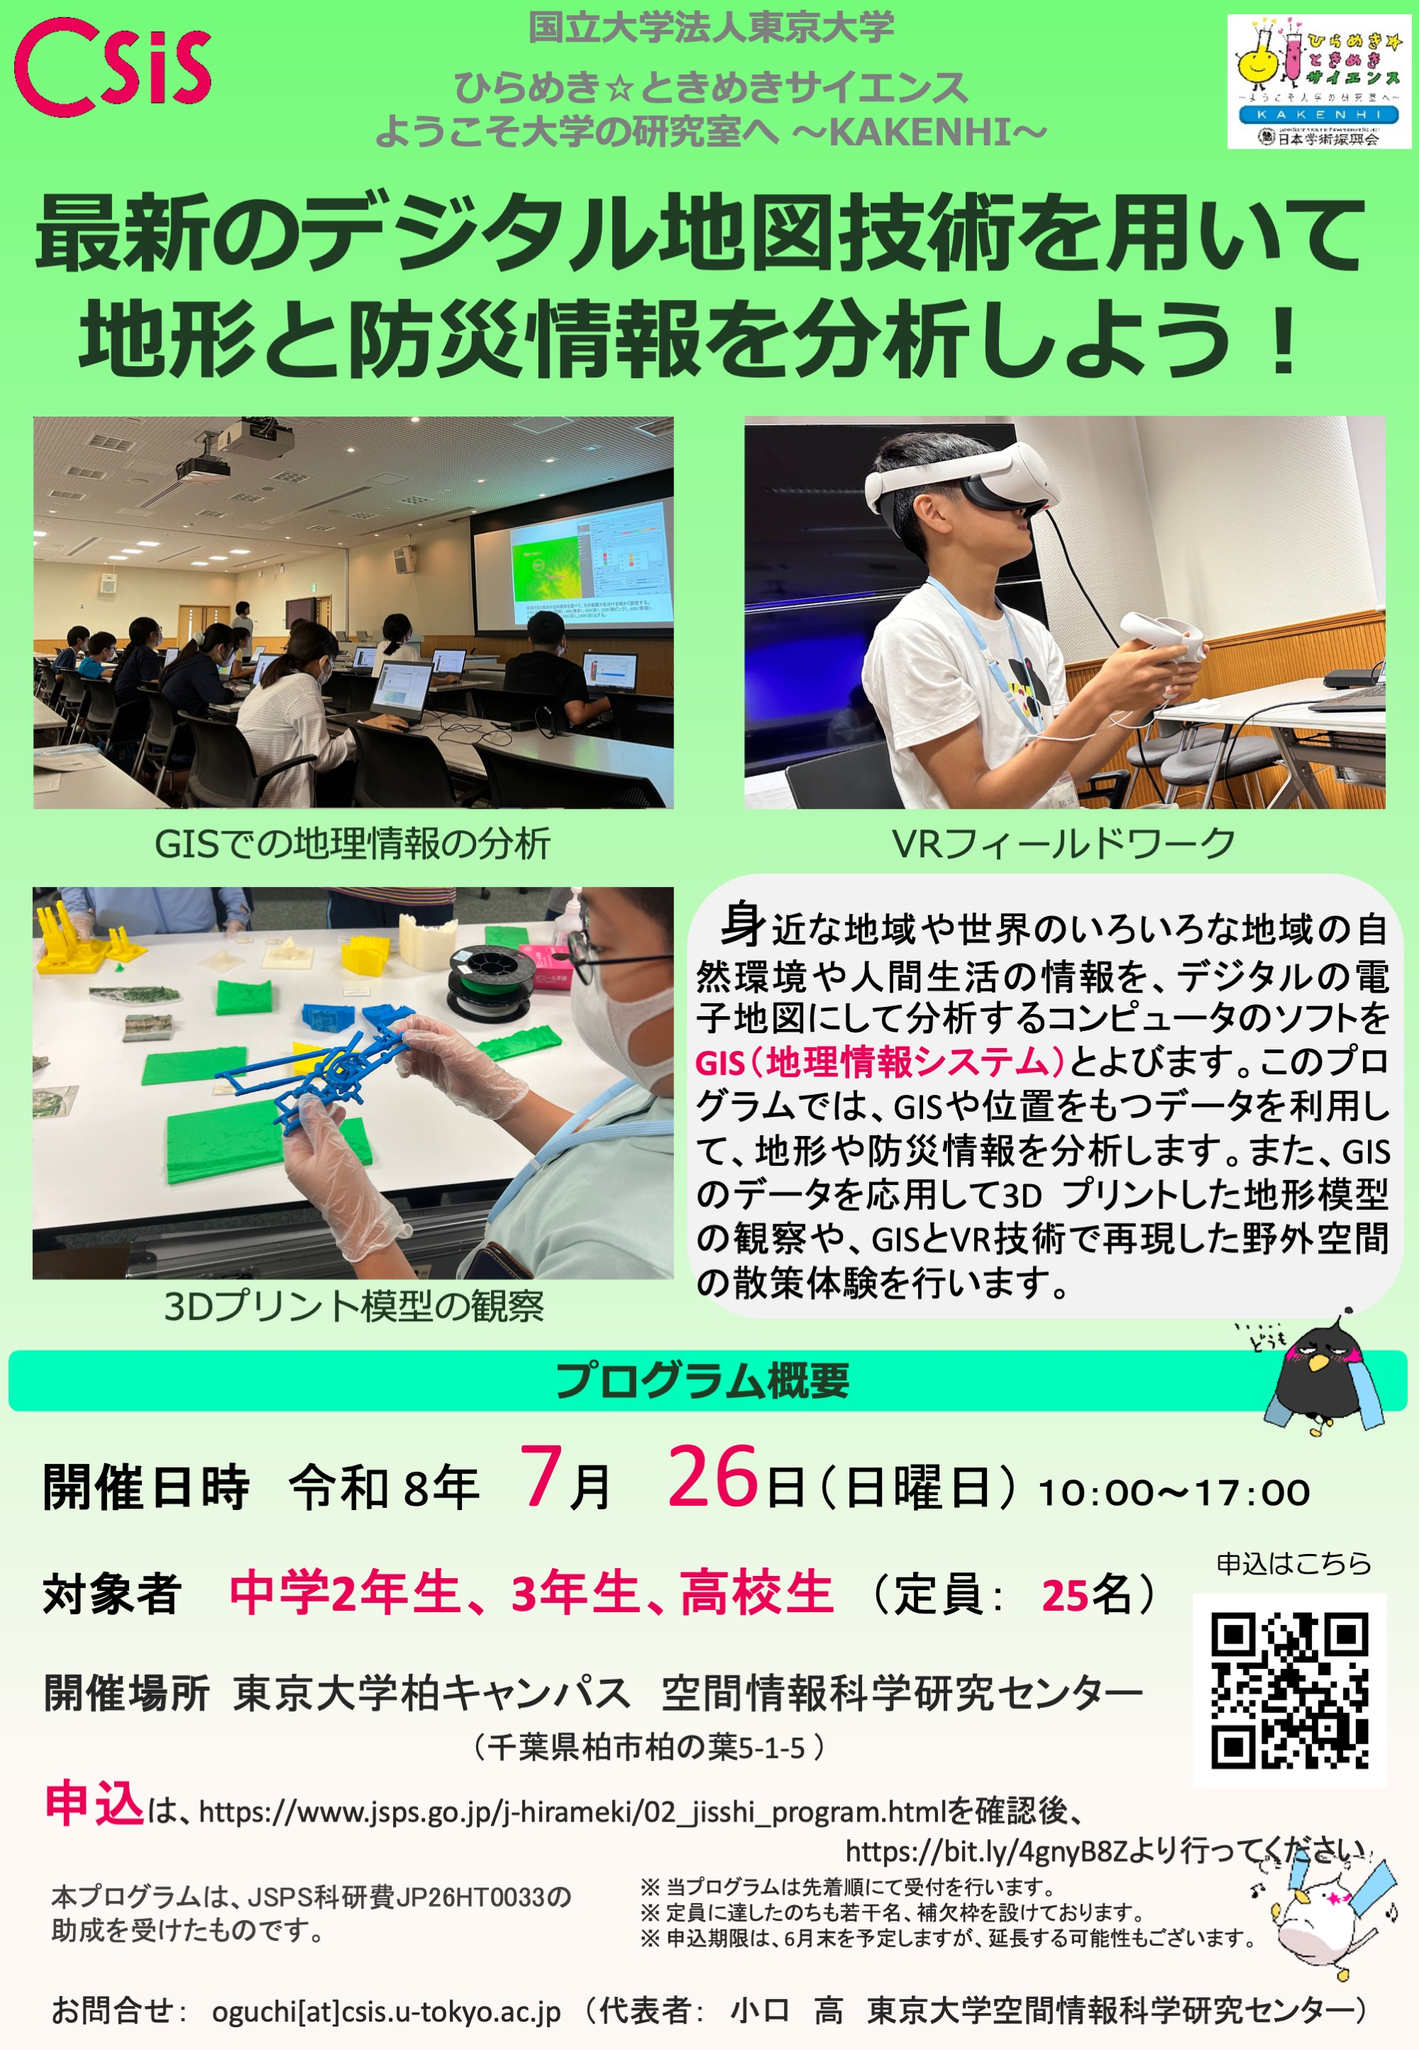
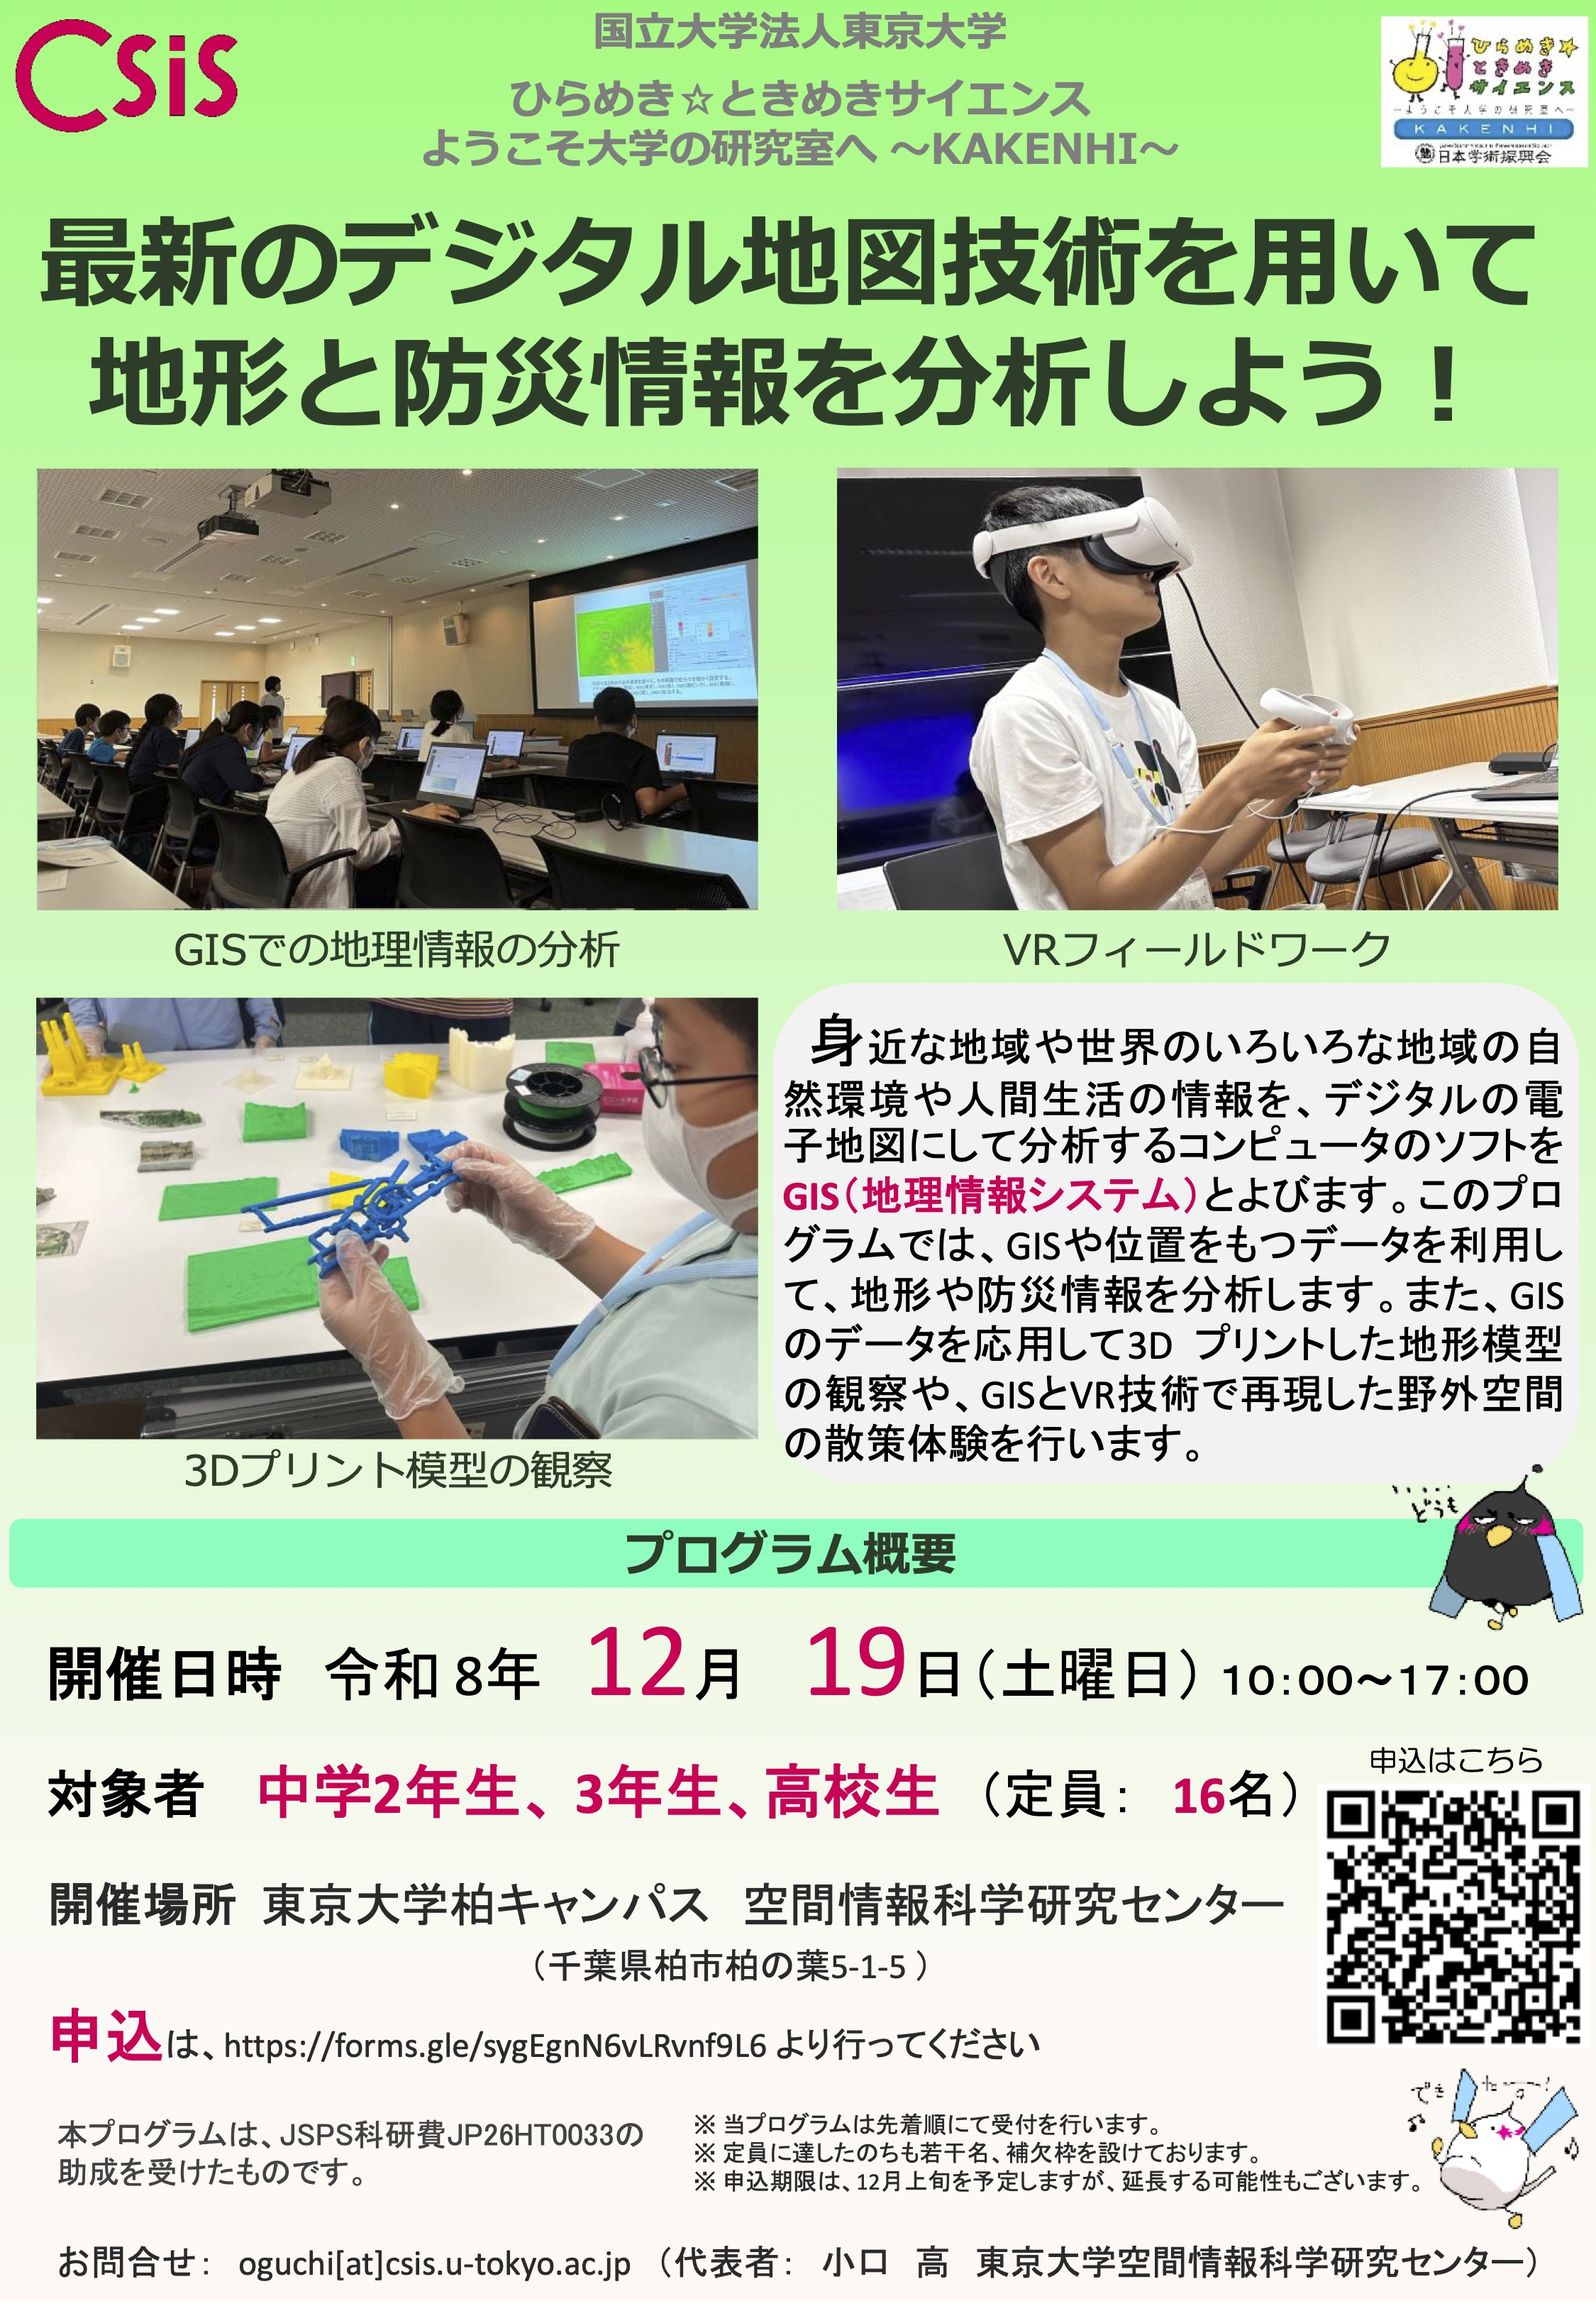
update

diff --git a/index.html b/index.html
@@ -353,7 +353,7 @@ h3{
 
 <h1 id="toc_0">最新のデジタル地図技術を用いて地形と防災情報を分析しよう！開催概要</h1>
 
-<p>ひらめき☆ときめきサイエンス「最新のデジタル地図技術を用いて地形と防災情報を分析しよう！」の開催概要、注意事項についてまとめたページです。本ページは申込者への連絡を想定したもので、新たに参加者を募集するためのページではありません。（2026/6/13更新）</p>
+<p>ひらめき☆ときめきサイエンス「最新のデジタル地図技術を用いて地形と防災情報を分析しよう！」の開催概要、注意事項についてまとめたページです。本プログラムは、7月と12月に同様の内容で実施します（2026/10/24更新）</p>
 
 <ul>
 <li><a href="#1">開催概要</a></li>
@@ -368,16 +368,16 @@ h3{
 <h2 id="toc_1"><a name="0"></a>開催概要</h2>
 
 <ul>
-<li>日時：7月26日（日）10：00～17：00</li>
+<li>日時：12月19日（日）10：00～17：00</li>
 <li>場所：千葉県柏市柏の葉5-1-5　東京大学空間情報科学研究センター</li>
 <li>対象：中学生2年生〜高校生</li>
 <li>講師：<a href="http://oguchaylab.csis.u-tokyo.ac.jp/members.html">小口 高</a>、<a href="https://yurikoyazawa.wixsite.com/yazawayuriko">矢澤 優理子</a>、Wang Ruci（東京大）、<a href="https://www.geoguraphy.com/">小倉拓郎</a>（一橋大/東京大）、<a href="https://researchmap.jp/hyamauchi/">山内啓之</a>（立命館大学/東京大）ほか</li>
 <li>内容：本プログラムは、地理情報システム、3Dプリンタ、VR機材を用いて防災や地形について実習形式で解説するものです。詳細は、<a href="https://www.jsps.go.jp/file/storage/kaken_hirameki_26/26ht0033.pdf">こちら</a>から確認してください。</li>
-<li>申し込みは、<a href="https://bit.ly/4gnyB8Z">https://bit.ly/4gnyB8Z</a>からも行えます。</li>
+<li>申し込みは、<a href="https://forms.gle/sygEgnN6vLRvnf9L6">https://forms.gle/sygEgnN6vLRvnf9L6</a>からも行えます。</li>
 </ul>
 
 <blockquote>
-<p>ひらめき☆ときめきサイエンスの公式ページは、<a href="https://www.jsps.go.jp/j-hirameki/02_jisshi_program.html">https://www.jsps.go.jp/j-hirameki/02<em>jisshi</em>program.html</a>です。本プログラムは、PDF４枚目の千葉県欄に記載があります。お問い合わせの先からの申し込みと説明がありますが、上記のフォームからお申し込みください。</p>
+<p>ひらめき☆ときめきサイエンスの公式ページは、<a href="https://www.jsps.go.jp/j-hirameki/02_jisshi_program.html">https://www.jsps.go.jp/j-hirameki/02<em>jisshi</em>program.html</a>です。本プログラムは、千葉県欄に記載があります。</p>
 </blockquote>
 
 <h2 id="toc_2"><a name="1"></a>プログラム</h2>
@@ -435,7 +435,7 @@ h3{
 </table>
 
 <blockquote>
-<p>昼休憩時には、ランチタイムトーク（）として、昼食をとりながら聞ける講演（20分程度）を予定する可能性があります。</p>
+<p>昼休憩時には、ランチタイムトークとして、昼食をとりながら聞ける講演（20分程度）を予定する可能性があります。</p>
 </blockquote>
 
 <h2 id="toc_3"><a name="2"></a>持ち物、服装</h2>
@@ -506,7 +506,7 @@ h3{
 
 <h3 id="toc_10">学食は利用できますか？</h3>
 
-<p>A. 当日は、構内のすべての学食が空いていません。参加者は、必ず昼食をご持参ください。※大学（会場）の最寄りに、ファミリーマートがあります。</p>
+<p>A. 参加者は、必ず昼食をご持参ください。※大学（会場）の最寄りに、ファミリーマートがあります。</p>
 
 <h3 id="toc_11">Q.当日に参加者（同伴者含む）が利用できるWi-Fiはありますか？</h3>
 
